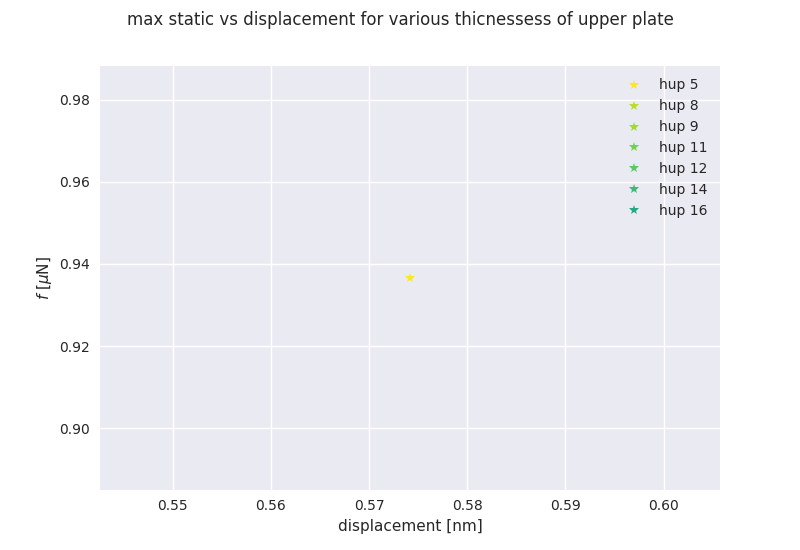
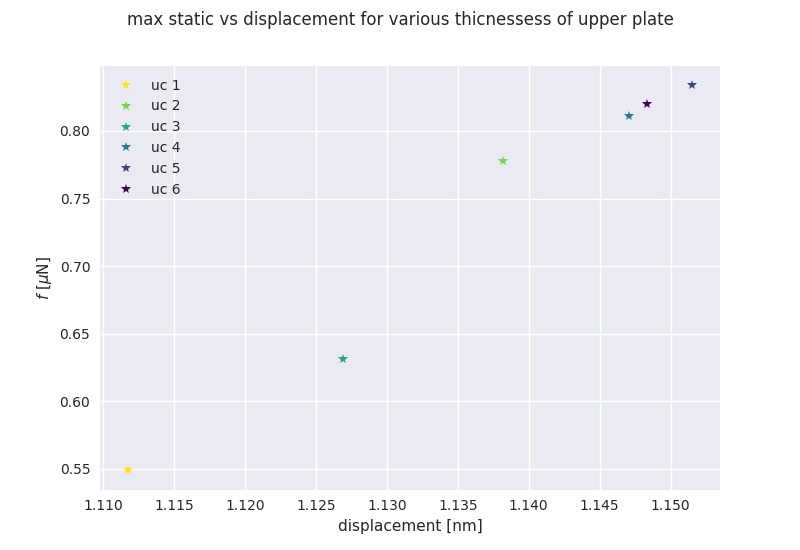
plotted load curves, vel 5 temp 1800

diff --git a/python/plot/plot_load_curves.py b/python/plot/plot_load_curves.py
@@ -26,13 +26,12 @@ def load_load_curves(temp, vel, force, orientation, grid, template_lc, template_
 
     files = glob(load_curve_files)
     assert files != []
-    for file in glob(load_curve_files):
-        load_curves = loadtxt(file)
+    for _file in glob(load_curve_files):
+        load_curves = loadtxt(_file)
         for seed in seeds:
-            if str(seed) in str(file):
-                print('found loadcurve ',file)
+            if str(seed) in str(_file):
+                print('found loadcurve ',_file)
                 load_curves_all.append(load_curves)
-                print(len(load_curves))
     print('load curves shape: ', np.shape(load_curves_all))
     load_curves_all[1] = load_curves_all[1][:len(load_curves_all[0])]
     load_curves_all = np.array(load_curves_all)
@@ -58,7 +57,9 @@ def load_max_static(temp, vel, force, orientation, grid, template_lc, template_m
     assert files != []
     for file in glob(ms_files):
         for seed in seeds:
+            print('seed ', seed)
             if str(seed) in str(file):
+                print(' found seed ', seed)
                 time, ms = loadtxt(file)
                 ms_all.append((time,ms))
 
@@ -79,8 +80,8 @@ with open(load_curve_file, 'r') as f:
 """
 def plot_load_curves_as_funciton_of_top_thiccness():
     # user input
-    temp = 2300
-    vel = 1.25
+    temp = 1800
+    vel = 5
     force = 0.001
     orientation = 100
     grid = (4,4)
@@ -94,16 +95,10 @@ def plot_load_curves_as_funciton_of_top_thiccness():
 
 
 
-    seed_dict = {80: [48908,22499,76617], 83: [21221,72821,85115],
-             #85: [40106,41914,39938,90583,54727,99635],
-             93: [49129,53798,78101],
-             100: [19120,90679,26450,80070,65417,20704,78741,89763],
-             103: [88748,28146], 105: [61779,74230,11638],
-             109: [89150,36554,97741]}
+    seed_dict = {1: [36015,37461,77220], 2: [49156,64486,73803],
+                 3: [30642,74822,90272], 4: [20939,86781,87609],
+                 5: [25642,46012,71581], 6: [86406,91501]}
 
-
-    hup = [5,8,9,11,12,14,16,18,20,22,24,26,28,30,33]
-    seed_groups = {80:0,83:0,93:1,100:1,103:2,105:2,109:3}
 
     load_curve_dir = project_dir + 'txt/load_curves/erratic/'
     max_static_dir = project_dir + 'txt/max_static/erratic/'
@@ -111,37 +106,36 @@ def plot_load_curves_as_funciton_of_top_thiccness():
     template_lc = load_curve_dir + 'load_curves_temp{}_vel{}_force{}_or{}_seed*_errgrid{}_{}_chess.txt'
     template_ms = max_static_dir + 'max_static_temp{}_vel{}_force{}_or{}_seed*_errgrid{}_{}_chess.txt'
     style.use('seaborn') 
-    min_hup = np.min(hup)
-    max_hup = hup[-1]
+    min_hup = 1
+    max_hup = 6
 
-    fig, axs = plt.subplots(2,2)
+    fig, axs = plt.subplots(3,2)
     fig2 = plt.figure()
     axs2 = fig2.add_subplot(111)
 
     axs = axs.ravel()
     i = 0
-    for j, (height, seeds) in enumerate(seed_dict.items()):
+    for j, (uc, seeds) in enumerate(seed_dict.items()):
         print(seeds)
         print('i :',i)
         print('j :',j)
-        k = seed_groups[height]
-        print('k :',k)
         load_curves_all, load_curves = load_load_curves(temp, vel, force, orientation, 
                                                         grid, template_lc,template_ms, seeds)
 
         ms_all, ms_mean = load_max_static(temp, vel, force, orientation, grid,
                                  template_lc, template_ms, seeds)
-        c = plt.cm.viridis((max_hup - hup[i])/(max_hup - min_hup + 0.01))
-        axs[k].plot(load_curves[0,:,0], load_curves[0,:,1], c=c, label = f'hup {hup[i]}' )
-        axs2.plot(ms_mean[0], ms_mean[1],'*', label = f'hup {hup[i]}', c=c)
+        c = plt.cm.viridis((max_hup - uc)/(max_hup - min_hup + 0.01))
+        axs[j].plot(load_curves[0,:,0], load_curves[0,:,1], c=c, label = f'uc {uc}' )
+        axs2.plot(ms_mean[0], ms_mean[1],'*', label = f'uc {uc}', c=c)
+        print(np.shape(ms_all))
         for l in range(len(seeds)):
             print('l :',l)
             # ms_all contains tuples (time, ms)
             print(ms_all[l][0], ms_all[l][1])
             #axs2.plot(ms_all[l][0]*vel, ms_all[l][1], 'o')
-            axs[k].plot(ms_all[l][0], ms_all[l][1], 'o',c=c)
-            axs[k].plot(load_curves_all[l,:,0], load_curves_all[l,:,1], '--', alpha = 0.5, c=c)
-        axs[k].legend()
+            axs[j].plot(ms_all[l][0], ms_all[l][1], 'o',c=c)
+            axs[j].plot(load_curves_all[l,:,0], load_curves_all[l,:,1], '--', alpha = 0.5, c=c)
+        axs[j].legend()
         axs2.legend()
         i += 1
             
@@ -155,8 +149,8 @@ def plot_load_curves_as_funciton_of_top_thiccness():
     axs2.set_ylabel(r"$f$ [$\mu$N]")
     fig2.suptitle(f'max static vs displacement for various thicnessess of upper plate')
     fig2.savefig(fig_dir + 'png/displacement_vs_maxstatic_chess.png')
-    fig.suptitle(f"Mean of three runs, for varying upper plate thicness")
-    fig.savefig(fig_dir + 'png/load_curves_varying_hup_ms_chess.png', dpi = 500)
+    fig.suptitle(f"Mean of three runs, for varying upper plate thicness temp {temp}")
+    fig.savefig(fig_dir + 'png/load_curves_varying_uc_ms_chess.png', dpi = 500)
 
     
     plt.close()
@@ -274,96 +268,3 @@ if __name__ == '__main__':
     """
 
 
-    """ #theese are relax seeds
-    seeds_5 =  [24296,84160,79210]
-    seeds_8 =  [35701,84452,85253]
-    seeds_9 =  [34105,10800,42330]
-    seeds_11 = [89027,21504,40454]
-    seeds_12 = [80577,25262,14194]
-    seeds_14 = [82798,96793,76957]
-    seeds_16 = [81147,61987,51593]
-    seeds_18 = [51735,44709,45053]
-    seeds_20 = [70164,14798,28863]
-    seeds_22 = [43346,72761,24220]
-    seeds_24 = [41110,27848,58248]
-    seeds_26 = [29628,48780,22090]
-    seeds_28 = [47223,86471,56804]
-    seeds_30 = [55262,76203,84098]
-    seeds_33 = [39463,84117,53537]
-    """
-
-
-    """ #first run vel 5
-    seeds_5 =  [88753, 12754, 91693] # thicc 80
-    seeds_8 =  [50219, 31693, 19478] # thicc 83
-    seeds_9 =  [81094, 81717, 10840] # thicc 85
-    seeds_11 = [89936, 25987, 82860] # thicc 85
-    seeds_12 = [63620, 46351, 18735] # thicc 90
-    seeds_14 = [62648, 89682, 30607] # thicc 90
-    seeds_16 = [17767, 58195, 19686] # thicc 95
-    seeds_18 = [11084, 50879, 83355] # thicc 93
-    seeds_20 = [81955, 86485, 61282] # thicc 95
-    seeds_22 = [96804, 43682, 88372] # thicc 100
-    seeds_24 = [64771, 82158, 63871] # thicc 100
-    seeds_26 = [95317, 18462, 11729]#thicc 100
-    seeds_28 = [54648,88413,94253] #thicc 103
-    seeds_30 = [92651,19224,85380] #thicc 105
-    seeds_33 = [64798,34149] #thicc 109
-
-    """
-    """
-    # second push run vel 5
-    seeds_5 = [71361,91111,63445] # 80
-    seeds_8 = [12890,62608,29899] # 83
-    seeds_9 = [70529,45585,64900]
-    seeds_11 = [66909,27035,43111] # 85 
-    seeds_12 = [81809,93141,56900] 
-    seeds_14 = [33447,88504,79793] # 90
-    seeds_18 = [75942,21663,49508] # 93
-    seeds_16 = [67321,29830,36667] 
-    seeds_20 = [77113,99307,62931] # 95
-    seeds_22 = [47606,72506,44762] 
-    seeds_24 = [47009,37801,56714] 
-    seeds_26 = [54238,10257,73002] # 100
-    seeds_28 = [71970,74062,60542] # 103
-    seeds_30 = [81636,35286,69718] # 105
-    seeds_33 = [90953,90762,47980] # 109
-    """
-    """
-        #third push run
-    seeds_5 = [76532,67473,86988]
-    seeds_8 = [22135,54054,39337]
-    seeds_9 = [15007,95692,61395]
-    seeds_11 = [31234,92172,49033]
-    seeds_12 = [27448,57576,83094] 
-    seeds_14 = [68672,65867,65400]
-    seeds_16 = [57652,77804,75056]
-    seeds_18 = [37474,72730,76985] 
-    seeds_20 = [16010,24858,24113]
-    seeds_22 = [19590,75450,95072] 
-    seeds_24 = [63988,78860,45476] 
-    seeds_26 = [35593,21768,33674]
-    seeds_28 = [81910,33465] #46388 missing
-    seeds_30 = [23317,44679,86430]
-    seeds_33 = [66411,52069,63812]
-    """
-
-
-    '''
-    #fourth push, 700 long
-    seeds_5 = [97841,88985,79749] #80
-    seeds_8 = [81474,90347,79290] #83
-    seeds_9 = [40328,90215,62491]
-    seeds_11 = [80371,12038,48116] # 85
-    seeds_12 = [61347,50189,68738]
-    seeds_14 = [19022,23781,73474] #90
-    seeds_16 = [27598,75257,74926] # 95
-    seeds_20 = [17821,40450,80080] # 95
-    seeds_18 = [14130,95349,16972] #93
-    seeds_22 = [64180,63781,84634] 
-    seeds_24 = [64308,93573,48127] 
-    seeds_26 = [78231,43336,42599] # 100
-    seeds_28 = [28782,23246,41573] # 103
-    seeds_30 = [48834,99626,28475] # 105
-    seeds_33 = [89090,40422,52257] #109
-    '''

diff --git a/python/post/get_load_curves.py b/python/post/get_load_curves.py
@@ -12,9 +12,9 @@ from post_utils import extract_load_curves
 
 def get_load_curves():
     # user input
-    temp = 2300
+    temp = 1800
     orientation = "100"
-    vel = 1.25
+    vel = 5
     force = 0.001
     
     grid = (4,4)
@@ -23,7 +23,7 @@ def get_load_curves():
 
     # paths
     project_dir = '../../'
-    push_dir = project_dir + 'simulations/sys_or{}_hi{}/push/'
+    push_dir = project_dir + 'simulations/sys_or{}_uc{}/push/'
     if erratic:
         lc_dir = project_dir + 'txt/load_curves/erratic/'
         ms_dir = project_dir + 'txt/max_static/erratic/'
@@ -54,63 +54,10 @@ def get_load_curves():
 
     # collect log files
 
-    #seeds = [12589, 50887]  
-    #seeds = [88753,12754,91693] #thicc height 80
-    #seeds = [50219, 31693, 19478]# thicc height 83
-    # [31906, 35578, 69872, 94879] push seeds who used relax 37144
-    #seeds = [81094, 81717, 10840, 89936, 25987, 82860] # thicc 85
-    #seeds = [63620,46351,18735, 62648, 89682, 30607] # thicc 90
-    #seeds = [17767,58195,19686, 81955,86485,61282] # thicc 95
-    #seeds = [96804,43682,88372,64771,82158,63871,95317,18462,11729]#thicc 100
-    #seeds = [11084,50879,83355] # thicc 93
-    #seeds = [54648,88413,94253] #thicc 103
-    #seeds = [92651,19224,85380] #thicc 105
-    #seeds = [64798,34149] #thicc 109
-    
-    # second push run same as first run
-    #seeds = [71361,91111,63445] # 80
-    #seeds = [12890,62608,29899] # 83
-    #seeds = [70529,45585,64900, 66909,27035,43111] # 85 
-    #seeds = [81809,93141,56900, 33447,88504,79793] # 90
-    #seeds = [75942,21663,49508] # 93
-    #seeds = [67321,29830,36667, 77113,99307,62931] # 95
-    #seeds = [47606,72506,44762, 47009,37801,56714, 54238,10257,73002] # 100
-    #seeds = [71970,74062,60542] # 103
-    #seeds = [81636,35286,69718] # 105
-    #seeds = [90953,90762,47980] # 109
 
-    #third push run NOTE too short
-    #seeds = [76532,67473,86988]
-    #seeds = [22135,54054,39337]
-    #seeds = [15007,95692,61395, 31234,92172,49033]
-    #seeds = [27448,57576,83094, 68672,65867,65400]
-    #seeds = [57652,77804,75056]
-    #seeds = [37474,72730,76985, 16010,24858,24113]
-    #seeds = [19590,75450,95072, 63988,78860,45476, 35593,21768,33674]
-    #seeds = [81910,46388,33465]
-    #seeds = [23317,44679,86430]
-    #seeds = [66411,52069,63812]
-    
-    #fourth push, 700 long
-    #seeds = [97841,88985,79749] #80
-    #seeds = [81474,90347,79290] #83
-    #seeds = [40328,90215,62491,80371,12038,48116] # 85
-    #seeds = [61347,50189,68738, 19022,23781,73474] #90
-    #seeds = [27598,75257,74926] # 95
-    #seeds = [17821,40450,80080] # 95
-    #seeds = [14130,95349,16972] #93
-    #seeds = [64180,63781,84634, 64308,93573,48127, 78231,43336,42599] # 100
-    #seeds = [28782,23246,41573] # 103
-    #seeds = [48834,99626,28475] # 105
-    #seeds = [89090,40422,52257] #109
-
-    seed_dict = {80: [48908,22499,76617], 83: [21221,72821,85115],
-             85: [40106,41914,39938,90583,54727,99635],
-             93: [49129,53798,78101], 
-             100: [19120,90679,26450,80070,65417,20704,78741,89763],
-             103: [88748,28146], 105: [61779,74230,11638],
-             109: [89150,36554,97741]}
-
+    seed_dict = {1: [36015,37461,77220], 2: [49156,64486,73803],
+                 3: [30642,74822,90272], 4: [20939,86781,87609],
+                 5: [25642,46012,71581], 6: [86406,91501]}
     time = 700
     for height, seeds in seed_dict.items():
         logfiles = []

diff --git a/python/pre/setup_system.py b/python/pre/setup_system.py
@@ -25,7 +25,7 @@ az = 53         # height of asperity
 hl = 20         # height of lower surface/plate
 #hup = 9         # thickness of upper plate #thin: 2, thicc: 20, thiccer: 35
 #hup = np.arange(5)*unit_cell
-num_unit_cells = 6
+num_unit_cells = 1
 hup = unit_cell*num_unit_cells 
 hu = az+hup         # height of upper surface #thin: 65, thicc: 75, thiccer: 90
 

diff --git a/python/run/run_relax.py b/python/run/run_relax.py
@@ -16,7 +16,7 @@ from lammps_simulator.computer import GPU, CPU, SlurmGPU
 #dt = 0.002
 #number of timesteps is simtime/dt
 # User input
-temp = 2300
+temp = 1800
 simtime = 1000 #picosekunder
 force = 0.001
 
